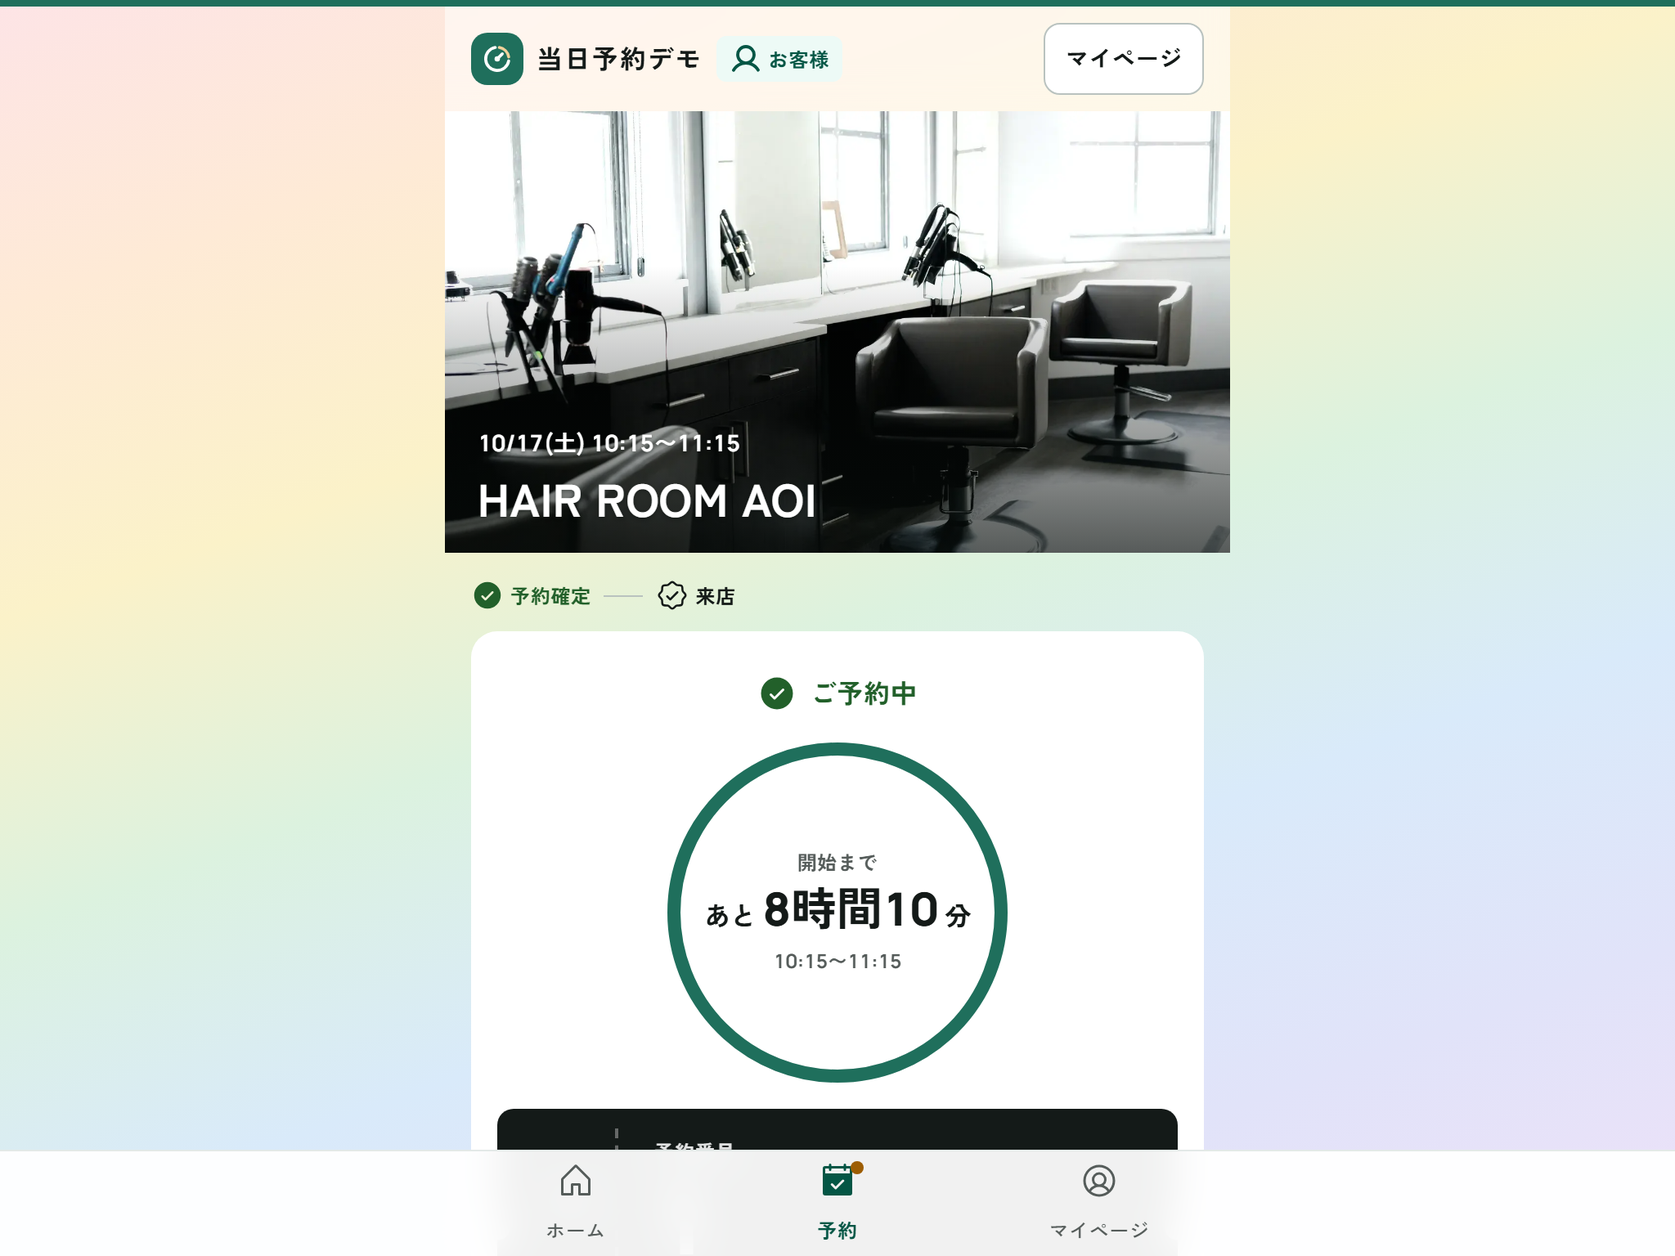
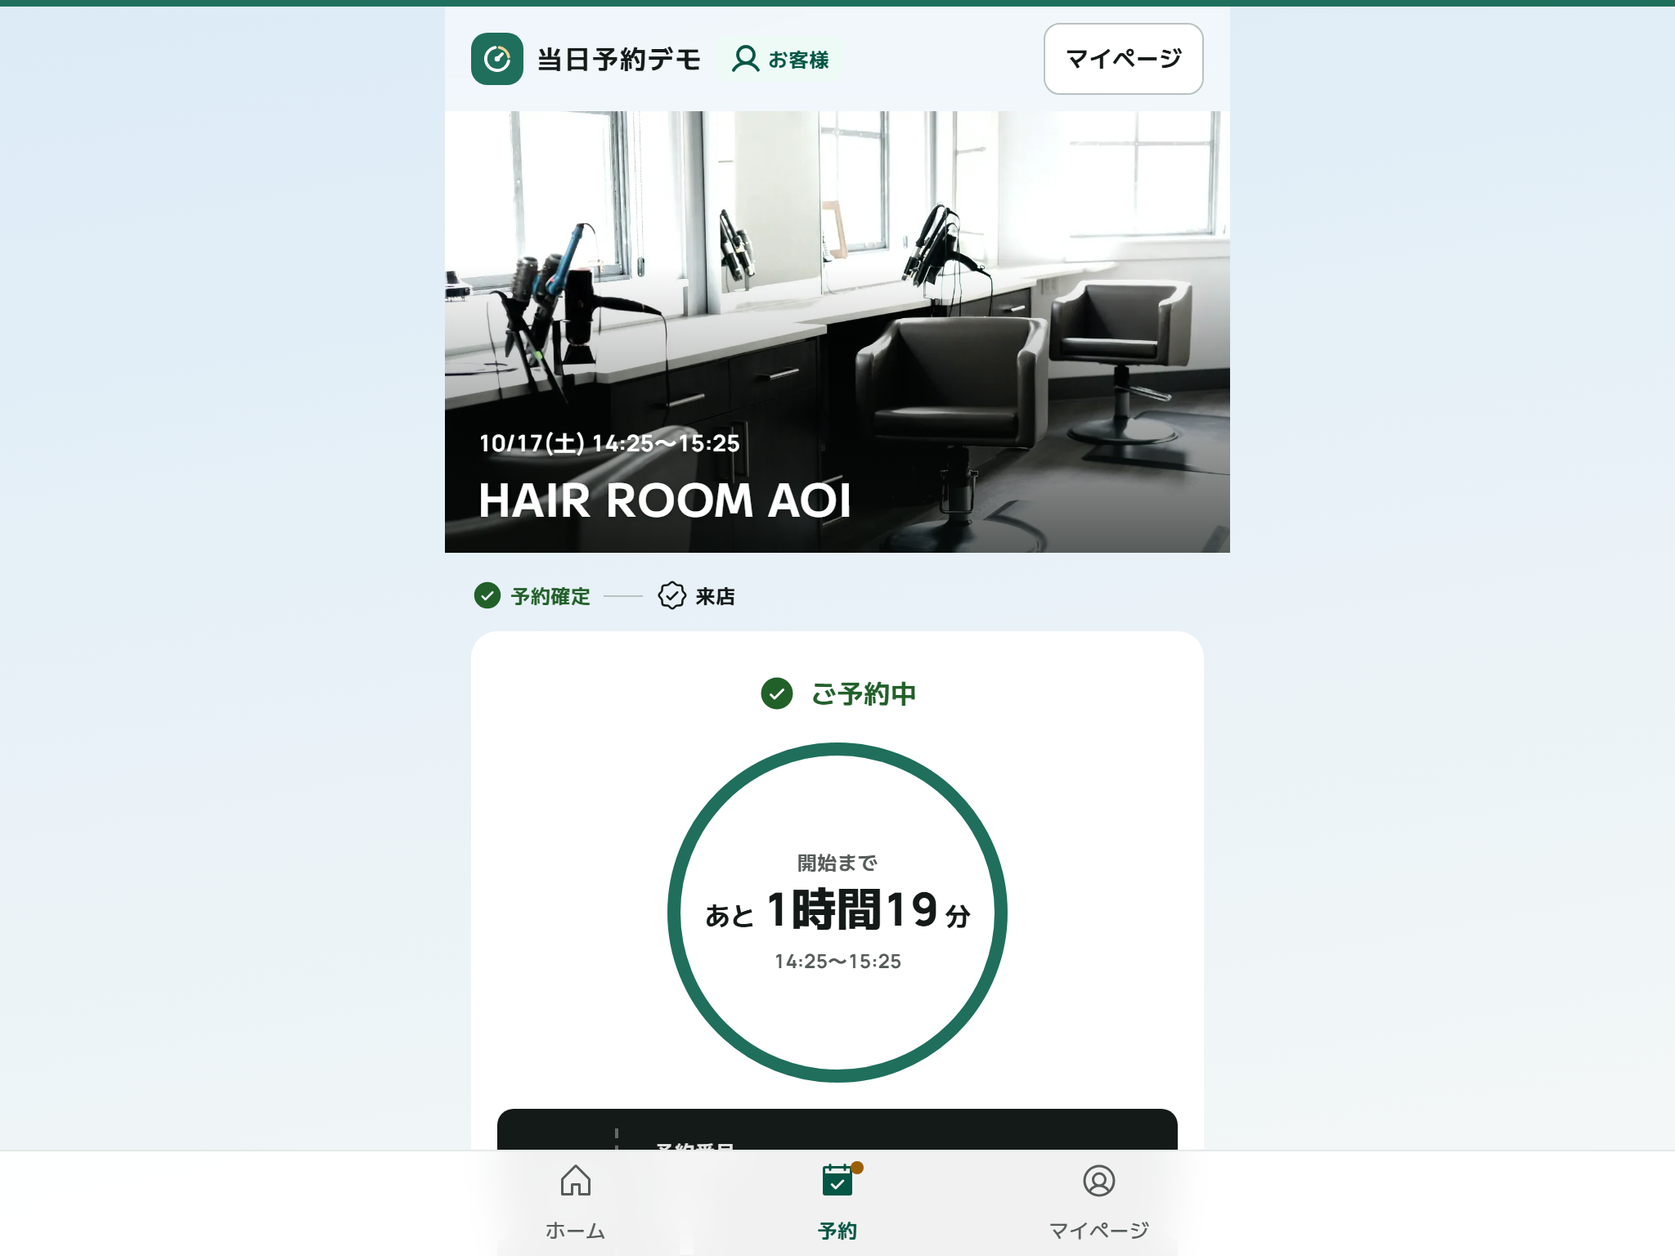
デザインの刷新：背景を「時刻の空」に、文字を M PLUS 2 に、「届く・減る・決まる」に短い動き（見た目だけ。機能は変えない）
- 背景：お客様の画面は虹をやめ、日本時間の時刻に合わせた淡い空（朝・昼・夕方・夜）。
  <html data-sky> を描画前と1分ごとに付ける小さなスクリプト（app/layout.tsx）。サロン・運営はほぼ無地
- 文字：Zen Kaku Gothic New → M PLUS 2（数字は Manrope のまま）
- 動き：候補カードは少し上から入り、開いている間に届いた枠だけ時間の色の輪が1回広がる。
  予約の画面は残りの輪が満ちて、残り10分で時間の色に。分の数字は下から入る。予約直後は確定の印が弾む。
  動きを減らす設定では止まる
- docs/design-references.md（4-5・4-6）・README・変更後の画面写真を更新

diff --git a/app/styles/tokens.css b/app/styles/tokens.css
@@ -66,14 +66,16 @@
   --violet-700: #452f78;
   --violet-800: #33235a;
 
-  /* 虹（ページの背景だけに使う、ごく淡い7色）。どの段の上でも、補足の文字・操作の色の文字が 4.5:1 以上になる明るさ */
-  --rainbow-red: #fde4e6;
-  --rainbow-orange: #feead6;
-  --rainbow-yellow: #fbf2c9;
-  --rainbow-green: #dcf2df;
-  --rainbow-blue: #d9eafa;
-  --rainbow-indigo: #e1e3f9;
-  --rainbow-violet: #ede1f8;
+  /* 時刻の空（ページの背景だけに使う、ごく淡い2色×4つの時間帯）。上（a）から下（b）へ流す
+     どの色の上でも、補足の文字（--gray-600）は 5.3:1 以上、操作の色の文字（--teal-700）は 7:1 以上 */
+  --sky-morning-a: #eef6f1;
+  --sky-morning-b: #fbefd8;
+  --sky-noon-a: #dcebf7;
+  --sky-noon-b: #f5f8f7;
+  --sky-dusk-a: #f7e3dc;
+  --sky-dusk-b: #e6e0f3;
+  --sky-night-a: #e1e3f9;
+  --sky-night-b: #e6e0f3;
 
   /* ---------- 基本の値：文字 ---------- */
   --size-12: 0.75rem;
@@ -106,19 +108,20 @@
   --color-surface-sunken: var(--gray-50);
   --color-surface-strong: var(--gray-900);
 
-  /* ページの背景の虹（base.css で、内容の後ろに画面いっぱいに敷く）。白い面・文字は、この上にそのまま置く
-     お客様：スマートフォンで「今から行ける」を探す。気持ちが軽くなるよう、斜めに流れる虹をそのままの淡さで
-     サロン・運営は、下の役割のテーマで、それぞれの使い方に合わせて抑える */
-  --rainbow: var(--rainbow-red), var(--rainbow-orange), var(--rainbow-yellow), var(--rainbow-green), var(--rainbow-blue),
-    var(--rainbow-indigo), var(--rainbow-violet);
-  --page-wash: linear-gradient(160deg, var(--rainbow));
-  /* デモ用の舞台：3つの端末が、左から右へ別の色の上に並ぶ。沈んだ面を半分重ねて、端末を目立たせる */
+  /* ページの背景（base.css で、内容の後ろに画面いっぱいに敷く）。白い面・文字は、この上にそのまま置く
+     お客様：今の時刻（日本時間）の空。朝・昼・夕方・夜で色が変わり、「今日の、今の空き」であることを伝える
+       時間帯は <html data-sky="..."> で決まる（app/layout.tsx の小さなスクリプトが、開いたときと1分ごとに付け直す）
+     サロン・運営は、下の役割のテーマで、ほぼ無地にする */
+  --sky-a: var(--sky-noon-a);
+  --sky-b: var(--sky-noon-b);
+  --page-wash: linear-gradient(170deg, var(--sky-a), var(--sky-b));
+  /* デモ用の舞台：3つの端末が、朝から夜へ移る1日の空の上に並ぶ。沈んだ面を半分重ねて、端末を目立たせる */
   --stage-wash: linear-gradient(
       color-mix(in srgb, var(--color-surface-sunken) 50%, transparent),
       color-mix(in srgb, var(--color-surface-sunken) 50%, transparent)
     ),
-    linear-gradient(100deg, var(--rainbow));
-  /* 上に残る帯（ヘッダー・タブ）：白を半分重ねてぼかし、後ろの虹が透けて見えるようにする */
+    linear-gradient(100deg, var(--sky-morning-b), var(--sky-noon-a), var(--sky-dusk-a), var(--sky-night-a));
+  /* 上に残る帯（ヘッダー・タブ）：白を半分重ねてぼかし、後ろの背景の色が透けて見えるようにする */
   --color-glass: color-mix(in srgb, var(--color-surface) 55%, transparent);
 
   /* 文字（補足も 4.5:1 以上） */
@@ -189,7 +192,7 @@
   --shadow-text-on-photo: 0 1px 2px rgb(8 14 12 / 0.4);
 
   /* 文字の段階（補足 12・本文 14〜16・小見出し 20・見出し 28・数字の主役 40・業務の大きな時刻 56） */
-  --font-sans: var(--font-zen), "Hiragino Sans", "Hiragino Kaku Gothic ProN", "Yu Gothic", "Meiryo", system-ui, sans-serif;
+  --font-sans: var(--font-jp), "Hiragino Sans", "Hiragino Kaku Gothic ProN", "Yu Gothic", "Meiryo", system-ui, sans-serif;
   --font-num: var(--font-manrope), var(--font-sans);
   --text-caption: var(--size-12);
   --text-small: var(--size-14);
@@ -274,12 +277,8 @@
   --color-action-text: var(--indigo-700);
   --color-focus: var(--indigo-700);
   --color-bg: #f4f6fa;
-  /* タブレットで1日中開いておく業務の画面：タイムラインと同じ向き（左＝朝の赤 → 右＝夜の紫）に横へ流し、背景の色を 30% 重ねて静かに */
-  --page-wash: linear-gradient(
-      color-mix(in srgb, var(--color-bg) 30%, transparent),
-      color-mix(in srgb, var(--color-bg) 30%, transparent)
-    ),
-    linear-gradient(90deg, var(--rainbow));
+  /* タブレットで1日中開いておく業務の画面：目が疲れないよう、ほぼ無地。上の端だけ藍をごく淡く */
+  --page-wash: linear-gradient(180deg, var(--indigo-50), var(--color-bg) 40%);
 }
 :root:has(header[data-role="admin"]) {
   --color-action: var(--violet-600);
@@ -289,12 +288,25 @@
   --color-action-text: var(--violet-700);
   --color-focus: var(--violet-700);
   --color-bg: #f6f4f9;
-  /* 数字とグラフを読む画面：虹は上の端だけにして、画面の半分ほどで無地へ消す（グラフの色と混ざらない） */
-  --page-wash: linear-gradient(180deg, transparent 0, var(--color-bg) 55%),
-    linear-gradient(90deg, var(--rainbow));
+  /* 数字とグラフを読む画面：無地（グラフの色と混ざらない）。上の端だけ紫をごく淡く */
+  --page-wash: linear-gradient(180deg, var(--violet-50), var(--color-bg) 40%);
 }
 
-/* コントラストを高くする設定・強制カラーのとき、印刷するときは、虹をやめて無地にする */
+/* 時刻の空：朝（5〜11時）・昼（11〜16時）・夕方（16〜19時）・夜（19〜5時）。data-sky がないとき（スクリプトが動かない環境）は昼 */
+:root[data-sky="morning"] {
+  --sky-a: var(--sky-morning-a);
+  --sky-b: var(--sky-morning-b);
+}
+:root[data-sky="dusk"] {
+  --sky-a: var(--sky-dusk-a);
+  --sky-b: var(--sky-dusk-b);
+}
+:root[data-sky="night"] {
+  --sky-a: var(--sky-night-a);
+  --sky-b: var(--sky-night-b);
+}
+
+/* コントラストを高くする設定・強制カラーのとき、印刷するときは、背景の色をやめて無地にする */
 @media (prefers-contrast: more), (forced-colors: active), print {
   :root,
   :root:has(header[data-role]) {

diff --git a/app/layout.tsx b/app/layout.tsx
@@ -2,17 +2,16 @@ import './styles/tokens.css';
 import './styles/base.css';
 import type { Metadata, Viewport } from 'next';
 import type { ReactNode } from 'react';
-import { Manrope, Zen_Kaku_Gothic_New } from 'next/font/google';
+import { M_PLUS_2, Manrope } from 'next/font/google';
 import NetworkBanner from '@/components/NetworkBanner';
 
-// 文字：Zen Kaku Gothic New（日本語。細身で端正な形が「澄んだ・確か」に合う）
+// 文字：M PLUS 2（日本語。字面が締まっていて、数字の欧文となじむ。太さを細かく選べる可変フォント）
 // 数字：Manrope（時刻・金額・予約番号。幾何学的で桁が読みやすい。tabular-nums で桁をそろえる）
 // どちらも Google Fonts で公開されている SIL Open Font License のフォント
-const zen = Zen_Kaku_Gothic_New({
+const mplus = M_PLUS_2({
   subsets: ['latin'],
-  weight: ['400', '500', '700'],
   display: 'swap',
-  variable: '--font-zen',
+  variable: '--font-jp',
 });
 
 const manrope = Manrope({
@@ -36,9 +35,18 @@ export const viewport: Viewport = {
   themeColor: '#1f6f5c',
 };
 
+// ページの背景の「時刻の空」：日本時間の時刻から時間帯を決め、<html data-sky> に付ける（色は tokens.css）
+//   描画の前に決めて、背景が切り替わってちらつかないようにする。開いたままでも1分ごとに付け直す
+//   表示だけのためのもので、予約・表示の内容には関わらない
+const SKY_SCRIPT = `(function(){function s(){var h=new Date(Date.now()+324e5).getUTCHours();document.documentElement.setAttribute('data-sky',h<5?'night':h<11?'morning':h<16?'noon':h<19?'dusk':'night')}s();setInterval(s,6e4)})()`;
+
 export default function RootLayout({ children }: { children: ReactNode }) {
   return (
-    <html lang="ja" className={`${zen.variable} ${manrope.variable}`}>
+    // data-sky は描画の前にスクリプトが付けるので、その差は読み込み時の不一致として扱わない
+    <html lang="ja" className={`${mplus.variable} ${manrope.variable}`} suppressHydrationWarning>
+      <head>
+        <script dangerouslySetInnerHTML={{ __html: SKY_SCRIPT }} />
+      </head>
       <body>
         <a className="skip-link" href="#main">
           本文へ移動

diff --git a/components/user/UserHome.tsx b/components/user/UserHome.tsx
@@ -106,6 +106,9 @@ export default function UserHome() {
   const lastWinCount = useRef<number | null>(null);
   const searchSeq = useRef(0);
   const cardRefs = useRef(new Map<string, HTMLLIElement>());
+  // 開いている間に新しく届いた枠（見た目だけ：カードに時間の色の輪を出す）。最初の読み込みとエリアの切り替えでは出さない
+  const seenSlots = useRef<{ area: string | null | undefined; ids: Set<string> } | null>(null);
+  const [freshIds, setFreshIds] = useState<Set<string>>(() => new Set());
 
   const currentAreaId = areaId ?? profile?.area_id ?? areas[0]?.id ?? null;
   // 検索のエリア：ログインしている人は登録のエリア（未設定なら、すべてのエリア）。ログインしていない人は、選んだエリア
@@ -158,6 +161,20 @@ export default function UserHome() {
       clearInterval(timer);
     };
   }, [client, search]);
+
+  useEffect(() => {
+    if (!all) return;
+    const ids = all.map((s) => s.slot_id);
+    const seen = seenSlots.current;
+    if (!seen || seen.area !== searchAreaId) {
+      seenSlots.current = { area: searchAreaId, ids: new Set(ids) };
+      setFreshIds(new Set());
+      return;
+    }
+    const arrived = ids.filter((id) => !seen.ids.has(id));
+    for (const id of arrived) seen.ids.add(id);
+    setFreshIds(new Set(arrived));
+  }, [all, searchAreaId]);
 
   const valid = useMemo(
     () =>
@@ -558,6 +575,7 @@ export default function UserHome() {
                         gone={!!frozen?.gone.includes(s.id)}
                         selected={selected === s.id}
                         disabled={!!suspendedUntil}
+                        fresh={freshIds.has(s.id)}
                         extra={extras[s.salon_id]}
                         onSelect={() => setSelected(s.id)}
                         onBook={() => openSheet(s)}
@@ -583,6 +601,7 @@ export default function UserHome() {
                         gone={false}
                         selected={false}
                         disabled={!!suspendedUntil}
+                        fresh={freshIds.has(s.id)}
                         extra={extras[s.salon_id]}
                         onSelect={() => undefined}
                         onBook={() => openSheet(s)}

diff --git a/components/user/BookingDetail.tsx b/components/user/BookingDetail.tsx
@@ -228,17 +228,17 @@ export default function BookingDetail({ bookingId, isNew }: { bookingId: string;
                 )}
               </section>
             ) : (
-              <section className={`${s.live} ${changed ? s.changed : ''}`} data-live="">
+              <section className={`${s.live} ${changed ? s.changed : ''}`} data-live="" data-new={isNew ? 'true' : undefined}>
                 <p className={s.liveLabel}>
                   <CheckCircle size={24} weight="fill" aria-hidden focusable="false" />
                   {isNew ? '予約が確定しました' : 'ご予約中'}
                 </p>
-                <RemainRing fraction={fraction} label={`開始まであと${remainMin}分`}>
+                <RemainRing fraction={fraction} label={`開始まであと${remainMin}分`} soon={remainMin > 0 && remainMin <= 10}>
                   <span className={s.liveSub}>開始まで</span>
                   <span className={`${s.liveMain} num`} data-long={remainMin >= 60 ? 'true' : undefined}>
                     {remainMin > 0 ? (
                       <>
-                        あと<strong>{remainMin >= 60 ? `${Math.floor(remainMin / 60)}時間${remainMin % 60}` : remainMin}</strong>分
+                        あと<strong key={remainMin}>{remainMin >= 60 ? `${Math.floor(remainMin / 60)}時間${remainMin % 60}` : remainMin}</strong>分
                       </>
                     ) : (
                       'まもなく'

diff --git a/components/RemainRing.tsx b/components/RemainRing.tsx
@@ -1,25 +1,34 @@
-import type { ReactNode } from 'react';
+import type { CSSProperties, ReactNode } from 'react';
 import s from './RemainRing.module.css';
 
 // 「今」の目印：残り時間とともに減っていく円。fraction は 0〜1（残りの割合）
+//   表示したときは、空の輪から今の残りまで満ちていく。soon のときは輪を時間の色にする（見た目だけ）
 export default function RemainRing({
   fraction,
   size = 208,
   stroke = 8,
   children,
   label,
+  soon,
 }: {
   fraction: number;
   size?: number;
   stroke?: number;
   children?: ReactNode;
   label: string;
+  soon?: boolean;
 }) {
   const f = Math.max(0, Math.min(1, fraction));
   const r = (size - stroke) / 2;
   const c = 2 * Math.PI * r;
   return (
-    <div className={s.ring} style={{ width: size, height: size }} role="img" aria-label={label}>
+    <div
+      className={s.ring}
+      style={{ width: size, height: size, '--ring-c': c } as CSSProperties}
+      data-soon={soon ? 'true' : undefined}
+      role="img"
+      aria-label={label}
+    >
       <svg width={size} height={size} viewBox={`0 0 ${size} ${size}`} aria-hidden>
         <circle cx={size / 2} cy={size / 2} r={r} className={s.track} strokeWidth={stroke} />
         <circle

diff --git a/components/user/CandidateCard.tsx b/components/user/CandidateCard.tsx
@@ -43,6 +43,7 @@ export default function CandidateCard({
   gone,
   selected,
   disabled,
+  fresh,
   extra,
   onSelect,
   onBook,
@@ -54,6 +55,8 @@ export default function CandidateCard({
   gone: boolean;
   selected: boolean;
   disabled: boolean;
+  // 開いている間に新しく届いた枠（見た目だけ：時間の色の輪が1回広がる）
+  fresh?: boolean;
   extra?: SalonExtra;
   onSelect: () => void;
   onBook: () => void;
@@ -72,7 +75,7 @@ export default function CandidateCard({
   const staff = stylistLine(slot.stylist_name, extra);
 
   return (
-    <li ref={refFn} className={`${s.card} ${gone ? s.gone : ''}`} data-selected={selected ? 'true' : undefined} onClick={onSelect}>
+    <li ref={refFn} className={`${s.card} ${gone ? s.gone : ''}`} data-selected={selected ? 'true' : undefined} data-fresh={fresh ? 'true' : undefined} onClick={onSelect}>
       <div className={s.head}>
         {no !== undefined && <span className={s.no}>{no}</span>}
         <span className={s.start}>{fmtTime(slot.start_at)}</span>

diff --git a/components/user/CandidateCard.module.css b/components/user/CandidateCard.module.css
@@ -14,6 +14,33 @@
   border-radius: var(--radius-surface);
   background: var(--color-surface);
   transition: box-shadow var(--motion-short) var(--ease-out);
+  /* 届く：カードは少し上から入る（動きを減らす設定では、長さが 0 になり、すぐに表示される） */
+  animation: arrive var(--motion-long) var(--ease-out) both;
+}
+
+/* 開いている間に新しく届いた枠：時間の色の輪が1回だけ広がって消える */
+.card[data-fresh="true"] {
+  animation:
+    arrive var(--motion-long) var(--ease-out) both,
+    ring calc(var(--motion-long) * 2) var(--motion-base) var(--ease-out) both;
+}
+
+@keyframes arrive {
+  from {
+    opacity: 0;
+    transform: translateY(calc(-1 * var(--space-2)));
+  }
+}
+
+@keyframes ring {
+  from {
+    outline: var(--focus-width) solid var(--color-time);
+    outline-offset: 0;
+  }
+  to {
+    outline: var(--focus-width) solid transparent;
+    outline-offset: var(--space-2);
+  }
 }
 
 .card[data-selected="true"] {

diff --git a/components/user/BookingDetail.module.css b/components/user/BookingDetail.module.css
@@ -94,11 +94,36 @@
 }
 
 .liveMain strong {
+  display: inline-block;
   margin-inline: var(--space-1);
   font-family: var(--font-num);
   font-size: var(--text-figure);
   font-weight: var(--weight-heavy);
   line-height: 1;
+  /* 減る：1分進むたびに、新しい数字が下から入る */
+  animation: tick var(--motion-base) var(--ease-out);
+}
+
+@keyframes tick {
+  from {
+    opacity: 0;
+    transform: translateY(35%);
+  }
+}
+
+/* 決まる：予約した直後は、確定の印が弾むように現れる */
+.live[data-new="true"] .liveLabel svg {
+  animation: pop var(--motion-long) var(--ease-out) var(--motion-base) backwards;
+}
+
+@keyframes pop {
+  from {
+    opacity: 0;
+    transform: scale(0.4);
+  }
+  60% {
+    transform: scale(1.15);
+  }
 }
 
 .depart {

diff --git a/components/demo/DemoStage.module.css b/components/demo/DemoStage.module.css
@@ -1,5 +1,5 @@
 /* デモ用の舞台（/demo）：利用者（スマートフォン）・サロン（タブレット）・運営の3画面を並べる。画面録画にそのまま使う
-   淡い虹（左から右へ）に沈んだ面を半分重ねた上に、濃い縁の端末を置く。広い画面では横に3つ、狭くなると折り返す（運営は2段目に広く） */
+   朝から夜へ移る1日の空（左から右へ）に沈んだ面を半分重ねた上に、濃い縁の端末を置く。広い画面では横に3つ、狭くなると折り返す（運営は2段目に広く） */
 
 .stage {
   /* 端末の大きさ：スマートフォンは縁を含めて 408px（中は 392px）、高さは画面の高さから操作の帯の分を引く */

diff --git a/components/RemainRing.module.css b/components/RemainRing.module.css
@@ -21,7 +21,22 @@
   fill: none;
   stroke: var(--color-action);
   stroke-linecap: round;
-  transition: stroke-dashoffset var(--motion-long) var(--ease-out);
+  transition:
+    stroke-dashoffset var(--motion-long) var(--ease-out),
+    stroke var(--motion-base) var(--ease-out);
+  /* 表示したとき：空の輪から、今の残りまで満ちていく（終わったあとは、残りに合わせて少しずつ欠ける） */
+  animation: fill calc(var(--motion-long) * 2) var(--ease-out) backwards;
+}
+
+/* 開始が近いとき（残り10分以内）：輪を時間の色に */
+.ring[data-soon="true"] .value {
+  stroke: var(--color-time);
+}
+
+@keyframes fill {
+  from {
+    stroke-dashoffset: var(--ring-c);
+  }
 }
 
 .inner {

diff --git a/app/styles/base.css b/app/styles/base.css
@@ -33,7 +33,7 @@ body {
   border-block-start: var(--line-accent) solid var(--color-action);
 }
 
-/* ページの背景の虹（役割ごとの --page-wash）。画面に固定して内容の後ろに敷き、スクロールしても動かさない */
+/* ページの背景（お客様は時刻の空、サロン・運営はほぼ無地。役割ごとの --page-wash）。画面に固定して内容の後ろに敷き、スクロールしても動かさない */
 body::before {
   content: "";
   position: fixed;

diff --git a/components/AppHeader.module.css b/components/AppHeader.module.css
@@ -1,4 +1,4 @@
-/* 画面上部の帯：ブランドの印・役割・主な移動先。後ろの虹が透けるすりガラスにして、スクロールしても上に残す */
+/* 画面上部の帯：ブランドの印・役割・主な移動先。後ろの背景の色が透けるすりガラスにして、スクロールしても上に残す */
 
 .bar {
   position: sticky;
